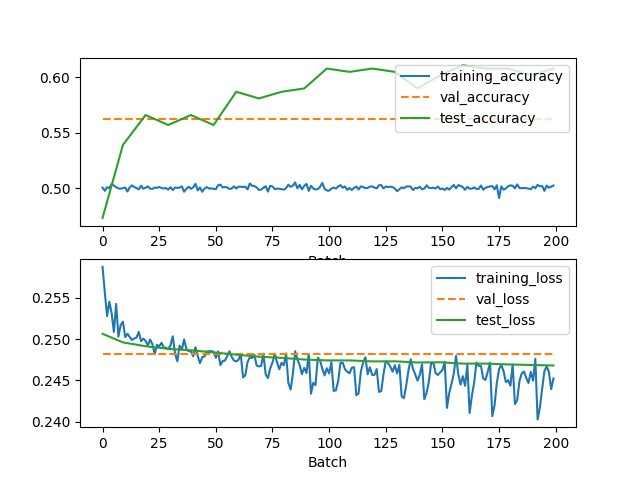
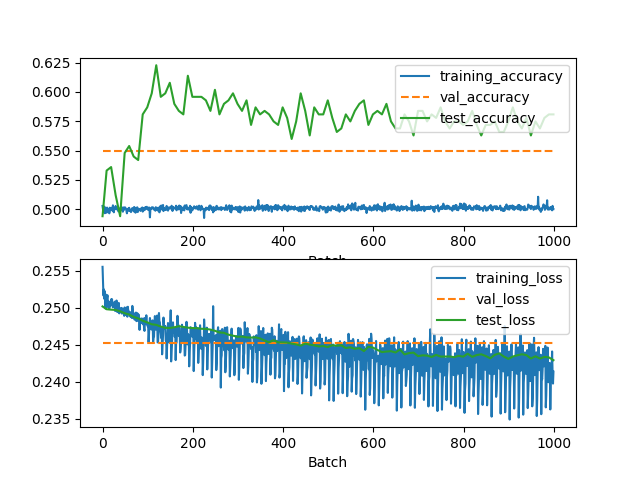
more complicated model -> maybe overfitting

diff --git a/planner/policylearn/train_model_gcn.py b/planner/policylearn/train_model_gcn.py
@@ -19,12 +19,13 @@ from torch_geometric.nn import (ChebConv, GCNConv, global_add_pool,
 
 # src: https://colab.research.google.com/drive/1I8a0DfQ3fI7Njc62__mVXUlcAleUclnb?usp=sharing
 class GCN(torch.nn.Module):
-    def __init__(self, hidden_channels, num_node_features):
+    def __init__(self, conv_channels, class_channels, num_node_features):
         super(GCN, self).__init__()
         torch.manual_seed(0)
-        self.conv1 = GCNConv(num_node_features, hidden_channels)
-        self.conv2 = GCNConv(hidden_channels, hidden_channels)
-        self.lin = Linear(hidden_channels*3, 1)
+        self.conv1 = GCNConv(num_node_features, conv_channels)
+        self.conv2 = GCNConv(conv_channels, conv_channels)
+        self.lin = Linear(conv_channels*3, class_channels)
+        self.lin2 = Linear(class_channels, 1)
 
     def forward(self, x, edge_index, pos, batch):
         # 1. Obtain node embeddings
@@ -43,6 +44,9 @@ class GCN(torch.nn.Module):
         # 3. Apply a final classifier
         x = F.dropout(x, p=0.6, training=self.training)
         x = self.lin(x)
+        x = x.relu()
+        x = F.dropout(x, p=0.3, training=self.training)
+        x = self.lin2(x)
         x = expit(x)  # logistics function
 
         return x
@@ -102,7 +106,7 @@ if __name__ == "__main__":
     # meta params
     validation_split: float = .1  # of first file
     test_split: float = .1
-    epochs = 20
+    epochs = 100
 
     # data
     pb = ProgressBar("epochs * files", len(fnames_read_pkl)*epochs, 1)
@@ -153,7 +157,8 @@ if __name__ == "__main__":
 
                 # create model
                 model = GCN(
-                    hidden_channels=64,
+                    conv_channels=32,
+                    class_channels=64,
                     num_node_features=num_node_features
                 )
                 optimizer = torch.optim.Adam(model.parameters(), lr=1e-4)
